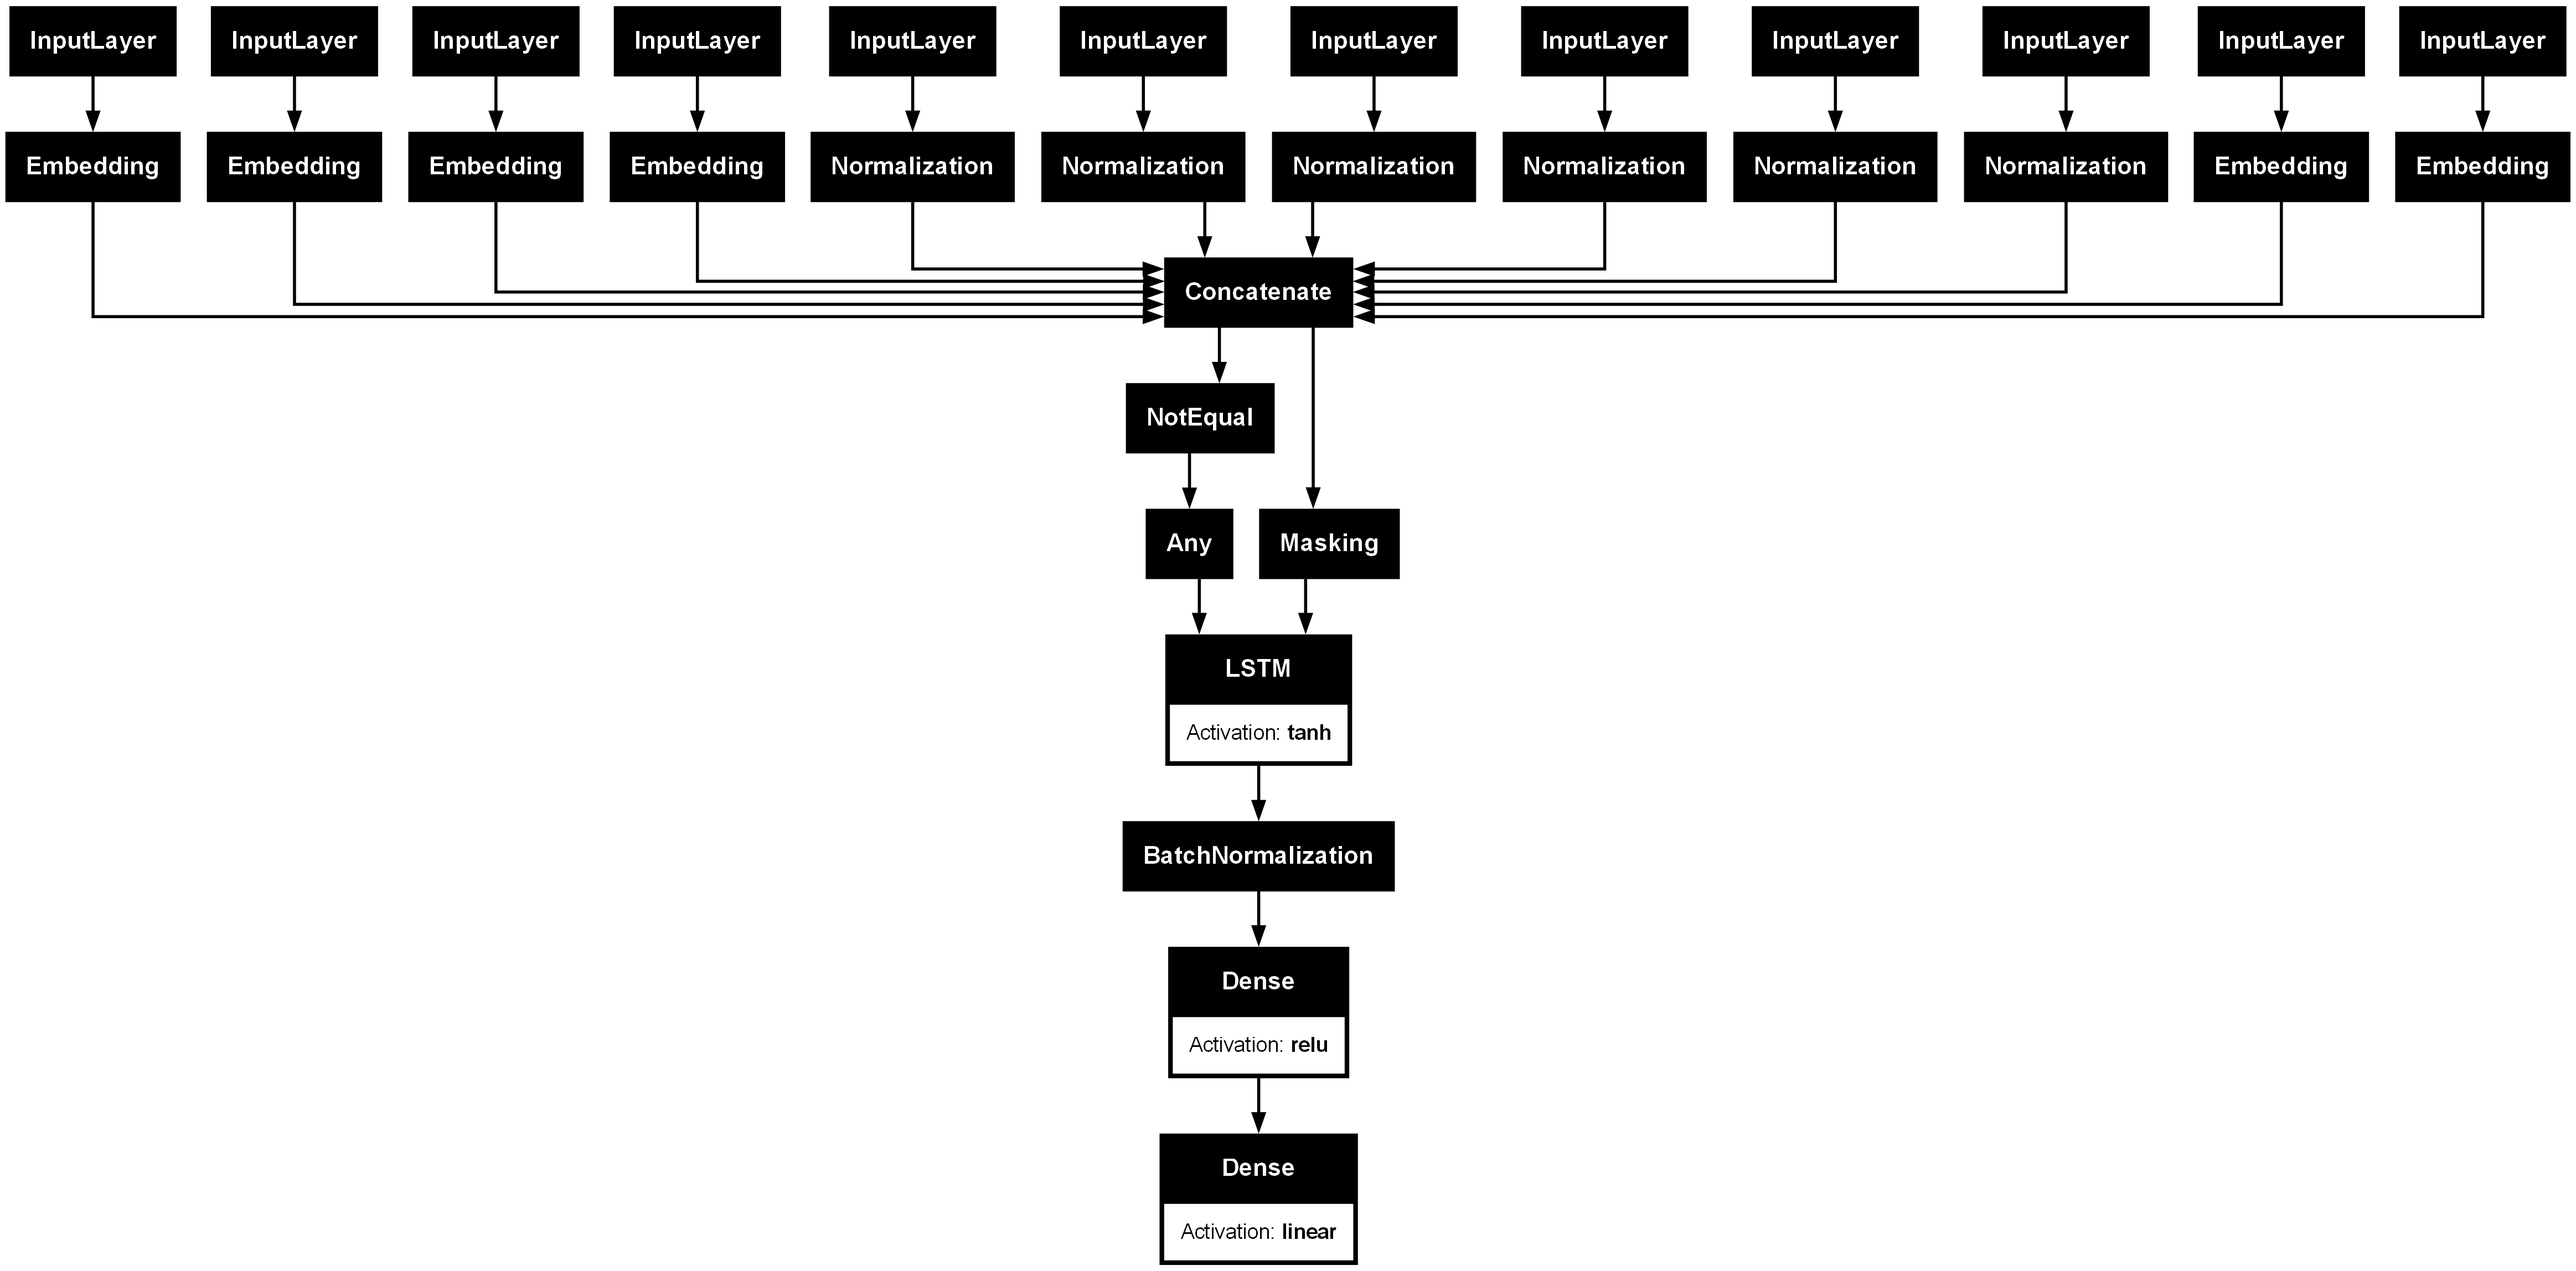
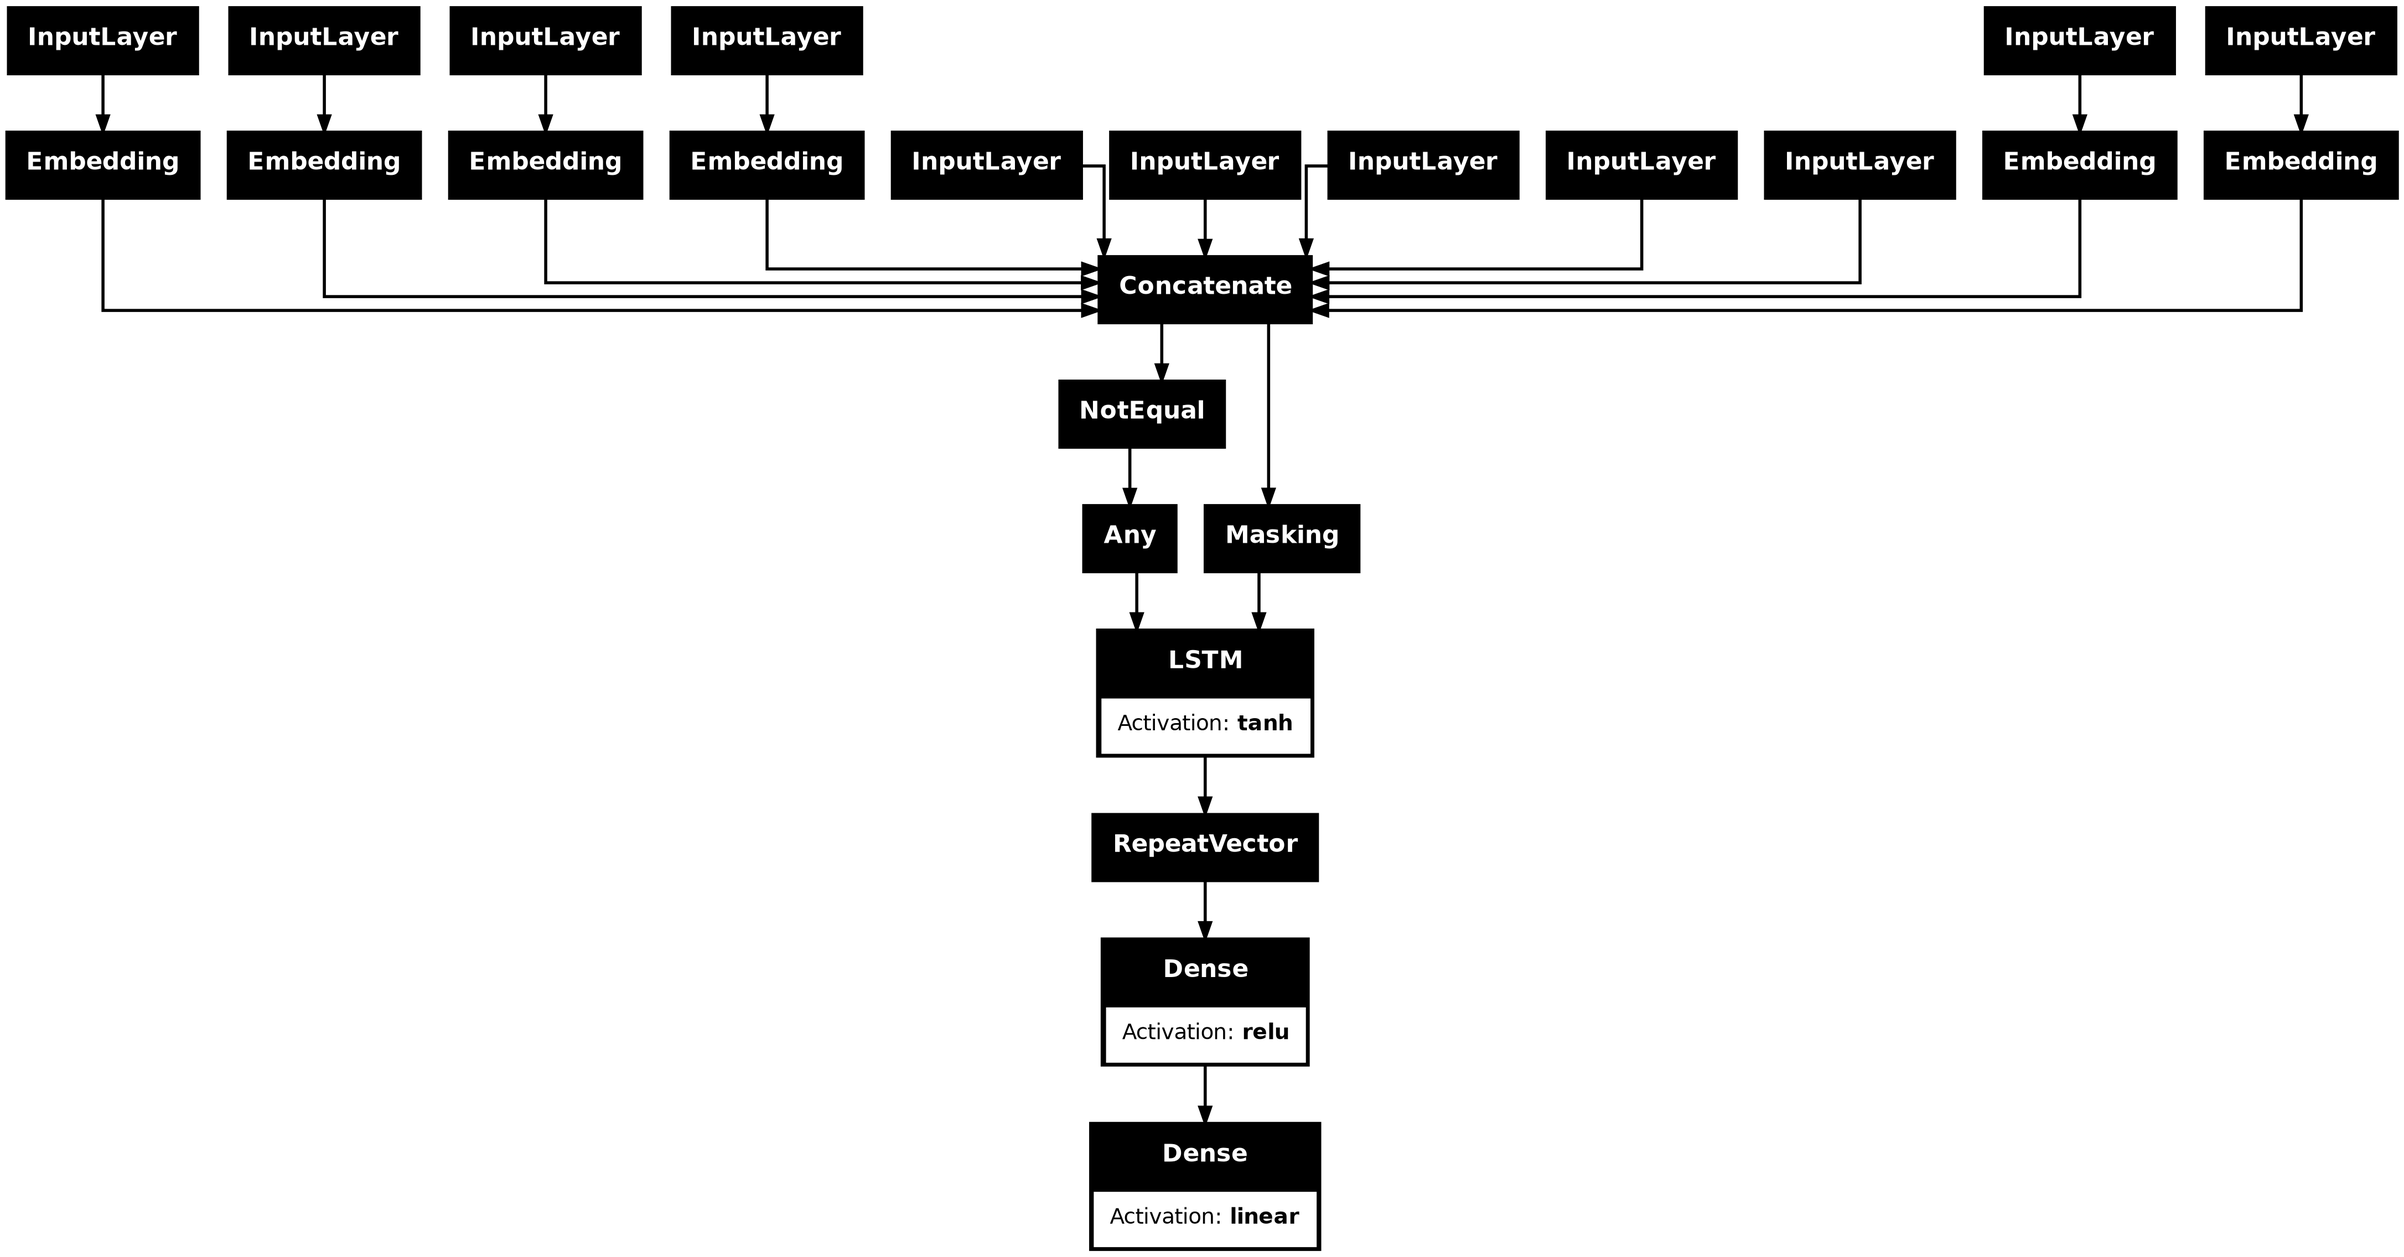
Undo the hyperparameter optimization

Changed region(s): [[0.0, 0.0, 1.0, 0.7188], [0.4351, 0.875, 0.5594, 1.0], [0.4351, 0.7188, 0.5594, 0.8438]]

diff --git a/opticoachmodel.py b/opticoachmodel.py
@@ -1,5 +1,5 @@
 from copy import deepcopy
-import tensorflow.keras.backend as K
+import keras.src.backend as K
 from keras import Model, utils
 from keras.src.callbacks import ReduceLROnPlateau, EarlyStopping
 from keras.src.layers import Input, Embedding, Concatenate, Masking, RepeatVector, LSTM, Dense, TimeDistributed, Lambda, BatchNormalization
@@ -53,7 +53,6 @@ class OpticoachModel:
             self.__preprocessedFiles = Preprocessor(arg).preprocessedFiles
             self.__backgroundYears = Preprocessor(arg).backgroundYears
             self.__predictionYears = Preprocessor(arg).predictionYears
-            self.__build(hp=HyperParameters())  # Build the model with hyperparameters
         elif type(arg) == OpticoachModel:
             self.predictedFiles = deepcopy(arg.predictedFiles)
             self.__modelFiles = deepcopy(arg.__modelFiles)
@@ -64,7 +63,7 @@ class OpticoachModel:
             raise Exception("Incorrect arguments for OpticoachModel.__init__(self, preprocessor)")
         return
 
-    def __build(self, hp: HyperParameters):
+    def build_with_hyperparams(self, hp: HyperParameters):
         '''
         Build the recurrent neural network.
         https://www.tensorflow.org/guide/keras/working_with_rnns
@@ -103,23 +102,29 @@ class OpticoachModel:
         
         # Concatenate and normalize the numerical features
         numericalConcatenation = Concatenate()(numerizedLayers)
+        print(f"shape(numericalConcatenation) = {shape(numericalConcatenation)}")
         
         # In order to accomodate gaps in the data, a masking is used to cover missing time steps 
         # and missing metrics. There will be gaps in the time sequence in which a coach was not 
         # a head coach, and gaps in the metrics if data is not available.
         maskedInputs = Masking(mask_value=0)(numericalConcatenation)
+        print(f"shape(maskedInputs) = {shape(maskedInputs)}")
         
         # In order to handle long-term dependencies we will utilize a Long Short Term-Memory (LSTM)
         # layer. Dropout and regularization are also supplemented in order to avoid overfitting.
         # We use chat's rule of thumb, lstm_units = min(128, max(32, features * 2)).
-        encoderLSTM = LSTM(
+        lstmLayer = LSTM(
             lstm_units,
             dropout=dropout_rate,
             recurrent_dropout=dropout_rate,
             kernel_regularizer='l2',
-            return_sequences=True  # Ensure the LSTM outputs sequences for each time step
+            return_sequences=False  # Output a single vector for the entire sequence
         )(maskedInputs)
-        lstmLayer = BatchNormalization()(encoderLSTM)
+        print(f"shape(lstmLayer) = {shape(lstmLayer)}")
+
+        # Repeat the LSTM output for 3 years to match the desired output sequence length
+        repeatedLayer = RepeatVector(3)(lstmLayer)
+        print(f"shape(repeatedLayer) = {shape(repeatedLayer)}")
 
         # In order to interpret the LSTM output, a Dense layer is added. Dropout is omitted
         # following this layer because that adds imprecision to regression tasks.
@@ -127,7 +132,8 @@ class OpticoachModel:
             dense_units,
             activation='relu',
             kernel_regularizer='l2'
-        )(lstmLayer)
+        )(repeatedLayer)
+        print(f"shape(hiddenLayer) = {shape(hiddenLayer)}")
         
         # Finally, a few key coaching success metrics are trained on and predicted. For the
         # purpose of precise regression, linear activation is used.
@@ -135,6 +141,7 @@ class OpticoachModel:
             len(tY[0][0]),
             activation='linear'
         ))(hiddenLayer)
+        print(f"shape(outputLayer) = {shape(outputLayer)}")
 
         model = Model(inputs=inputLayers, outputs=outputLayer)
 
@@ -146,13 +153,13 @@ class OpticoachModel:
 
         return model
 
-    def train(self):
+    def train_with_hyper_params(self):
         '''
         Train the recurrent neural network.
         '''
 
         tuner = BayesianOptimization(
-            self.__build,
+            self.build_with_hyperparams,
             objective='val_loss',  # Minimize validation loss
             max_trials=5,  # Number of hyperparameter combinations to try
             directory='tuner_results',
@@ -255,3 +262,131 @@ class OpticoachModel:
         save_pkl(vP, self.predictedFiles['validP'])
 
         return
+    
+    def build_and_train_directly(self):
+        '''
+        Build the recurrent neural network.
+        https://www.tensorflow.org/guide/keras/working_with_rnns
+        https://keras.io/api/layers/recurrent_layers/gru/
+        https://chatgpt.com/share/67f4a398-42f8-8012-9c56-9538846a97b0
+        '''
+        tX = load_pkl(self.__preprocessedFiles['trainX'])
+        vX = load_pkl(self.__preprocessedFiles['validX'])
+        tY = load_pkl(self.__preprocessedFiles['trainY'])
+        vY = load_pkl(self.__preprocessedFiles['validY'])
+        XEmbeds = load_pkl(self.__preprocessedFiles['XEmbeds'])
+        XVocabs = load_pkl(self.__preprocessedFiles['XVocabs'])
+
+        # We first accept an input batch of coaches. For each coach, a time-ordered sequence of
+        # coaching metrics will be provided. However, some of these metrics are categorical with
+        # string values, and so we must use a TextVectorization layer on these.
+        inputLayers, numerizedLayers = [], []
+        for i, embed in enumerate(XEmbeds):
+            if embed:
+                inputLayer = Input((self.__backgroundYears,), name=f"input_{i}_cat")
+                inputLayers.append(inputLayer)
+                vocabSize = len(XVocabs[i])
+                embeddingLayer = Embedding(
+                    vocabSize + 1,
+                    min(50, (vocabSize + 1) // 2)
+                )(inputLayer)
+                numerizedLayers.append(embeddingLayer)
+            else:
+                inputLayer = Input((self.__backgroundYears, 1), name=f"input_{i}_num")
+                inputLayers.append(inputLayer)
+                numerizedLayers.append(inputLayer)
+        
+        # Concatenate and normalize the numerical features
+        numericalConcatenation = Concatenate()(numerizedLayers)
+        print(f"shape(numericalConcatenation) = {shape(numericalConcatenation)}")
+        
+        # In order to accomodate gaps in the data, a masking is used to cover missing time steps 
+        # and missing metrics. There will be gaps in the time sequence in which a coach was not 
+        # a head coach, and gaps in the metrics if data is not available.
+        maskedInputs = Masking(mask_value=0)(numericalConcatenation)
+        print(f"shape(maskedInputs) = {shape(maskedInputs)}")
+        
+        # In order to handle long-term dependencies we will utilize a Long Short Term-Memory (LSTM)
+        # layer. Dropout and regularization are also supplemented in order to avoid overfitting.
+        # We use chat's rule of thumb, lstm_units = min(128, max(32, features * 2)).
+        lstmLayer = LSTM(
+            128,
+            dropout=0.25,
+            recurrent_dropout=0.25,
+            kernel_regularizer='l2',
+            return_sequences=False  # Output a single vector for the entire sequence
+        )(maskedInputs)
+        print(f"shape(lstmLayer) = {shape(lstmLayer)}")
+
+        # Repeat the LSTM output for 3 years to match the desired output sequence length
+        repeatedLayer = RepeatVector(3)(lstmLayer)
+        print(f"shape(repeatedLayer) = {shape(repeatedLayer)}")
+
+        # In order to interpret the LSTM output, a Dense layer is added. Dropout is omitted
+        # following this layer because that adds imprecision to regression tasks.
+        hiddenLayer = Dense(
+            128,
+            activation='relu',
+            kernel_regularizer='l2'
+        )(repeatedLayer)
+        print(f"shape(hiddenLayer) = {shape(hiddenLayer)}")
+        
+        # Finally, a few key coaching success metrics are trained on and predicted. For the
+        # purpose of precise regression, linear activation is used.
+        outputLayer = Dense(
+            len(tY[0][0]),
+            activation='linear'
+        )(hiddenLayer)
+        print(f"shape(outputLayer) = {shape(outputLayer)}")
+
+        model = Model(inputs=inputLayers, outputs=outputLayer)
+
+        model.compile(
+            optimizer=Adam(),
+            loss='mse',
+            metrics=['mse', 'mae']
+        )
+
+        def split_features(X):
+            xList = []
+            for i, embed in enumerate(XEmbeds):
+                metric = X[:, :, i, newaxis]
+                xList.append(metric)
+            return xList
+        
+        tXS = split_features(tX)
+        vXS = split_features(vX)
+        
+        learningRateReducer = ReduceLROnPlateau(
+            monitor='val_loss',  # Monitor validation loss
+            factor=0.5,          # Reduce learning rate by a factor of 0.5
+            patience=5,          # Wait for 3 epochs without improvement
+            min_lr=1e-6          # Minimum learning rate
+        )
+
+        earlyStopping = EarlyStopping(monitor='val_loss', patience=5, restore_best_weights=True)
+
+        model.fit(
+            tXS, tY,
+            batch_size=16,
+            epochs=100,
+            verbose=2,
+            callbacks=[learningRateReducer, earlyStopping],  # Include the learning rate reducer earlyStopping],
+            validation_data=(vXS, vY)
+        )
+
+        # Save the trained model
+        model.save(self.__modelFiles['model'])
+
+        # visualize the model structure:
+        utils.plot_model(
+            model,
+            to_file="files/Model_Visual.png",
+            rankdir="TB",
+            show_layer_names=False,
+            expand_nested=True,
+            dpi=200,
+            show_layer_activations=True,
+        )
+
+        return 

diff --git a/preprocess.py b/preprocess.py
@@ -600,7 +600,7 @@ class Preprocessor:
         )
         print(level_coach_year['Jimbo Fisher'])
         
-        winRate_coach_year = performance_coach_year.map(win_rate_map)
+        '''winRate_coach_year = performance_coach_year.map(win_rate_map)
         success_coach_year = winRate_coach_year * sos_coach_year
         success_coach_year = add_metric(
             success_coach_year,
@@ -613,7 +613,7 @@ class Preprocessor:
             True,
             name='success_coach_year'
         )
-        print(success_coach_year['Jimbo Fisher'])
+        print(success_coach_year['Jimbo Fisher'])'''
 
         # === PACKAGING METRICS ===
 

diff --git a/opticoach.py b/opticoach.py
@@ -8,9 +8,8 @@ from postprocess import Postprocessor
 aggregator = Aggregator()
 # aggregator.aggregate()
 preprocessor = Preprocessor(aggregator, 1985, 2020, 15, 3)
-# preprocessor.preprocess()
+preprocessor.preprocess()
 model = OpticoachModel(preprocessor)
-model.train()
-model.predict()
+model.build_and_train_directly()
 postprocessor = Postprocessor(preprocessor, model)
 postprocessor.postprocess()
